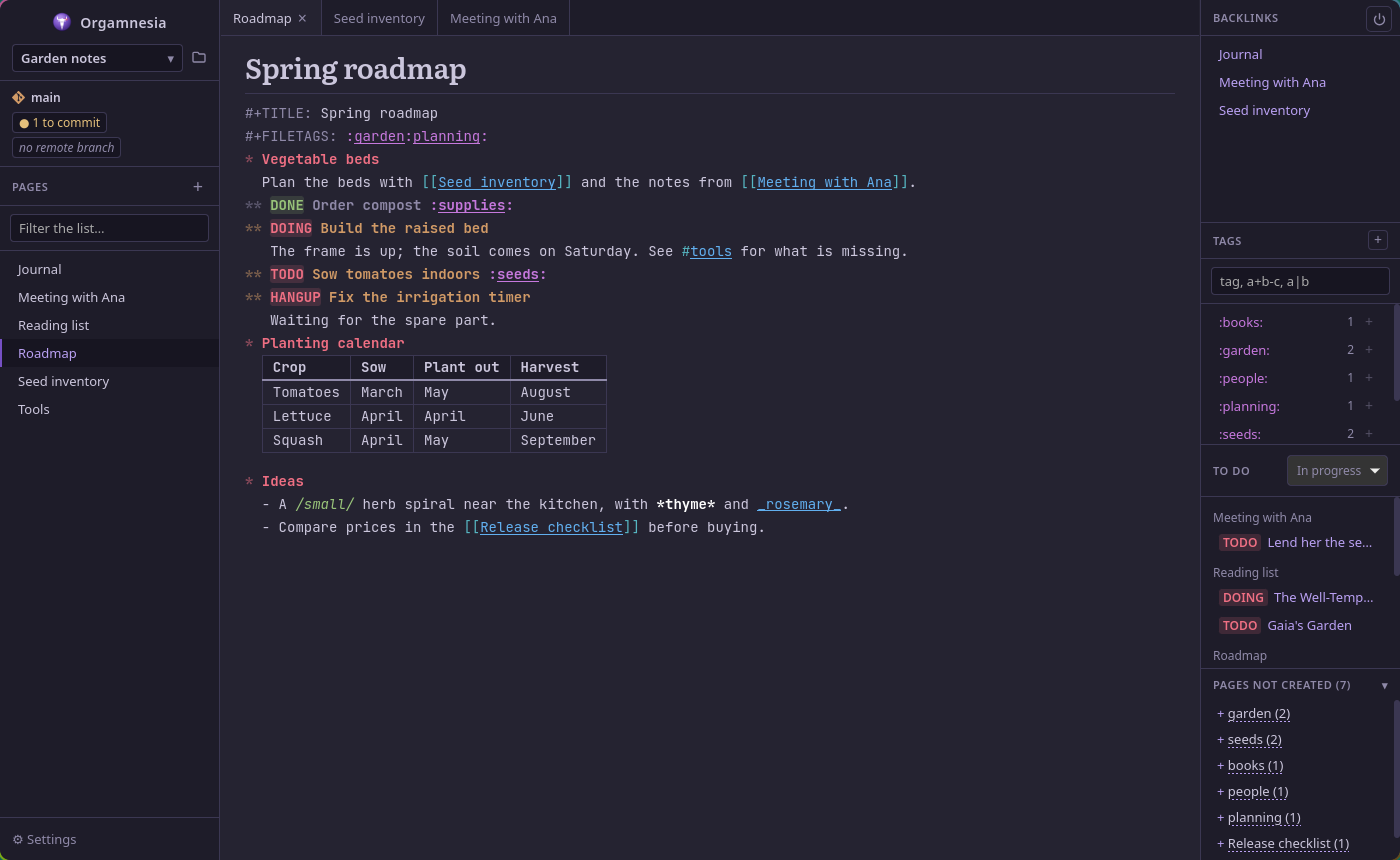
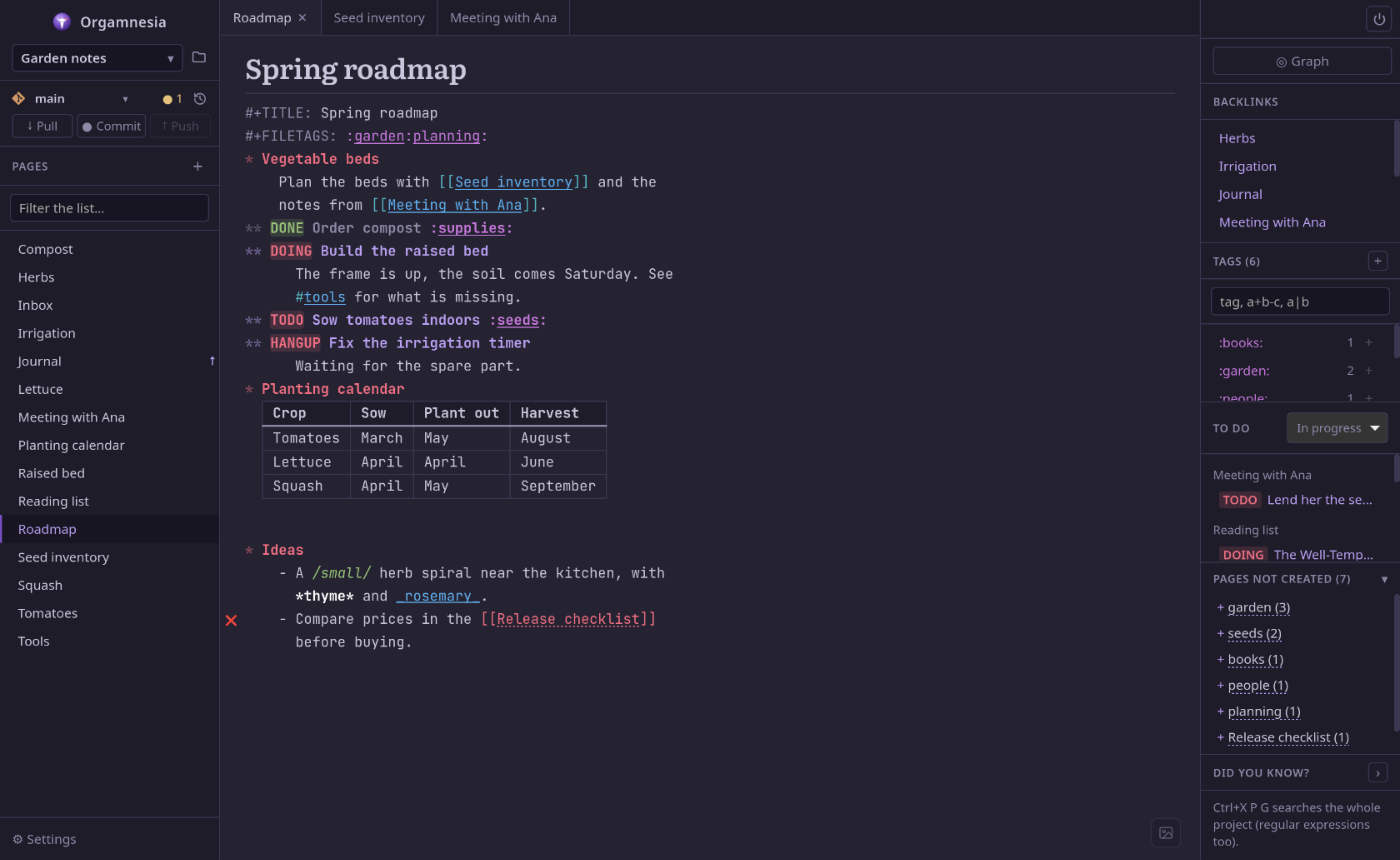
Docs for 1.3 and 1.4, new screenshots; arrows shown as arrows in shortcuts
- Feature docs (English and French): command palette, switching project
  from the keyboard, missing project folders hidden, Graph button, "Did you
  know?" frame, shortcut reminders, F1 cheat sheet, new shortcuts in the table
- Screenshots: overview, split view and side panel retaken; command palette,
  project menu, graph, tips frame and the Day, Fjord, Paper and Dracula themes
  added; the French docs show the English screenshots too
- Readme: palette, graph and themes, with a theme gallery; no verbatim
  markup inside bold, which GitHub shows as is
- Shortcut labels show ← → ↑ ↓ instead of ArrowLeft, ArrowRight…

diff --git a/src/keybindings.rs b/src/keybindings.rs
@@ -276,6 +276,10 @@ fn display_combo(binding: &str) -> String {
             "ctrl"  => "Ctrl".to_string(),
             "shift" => "Shift".to_string(),
             "alt"   => "Alt".to_string(),
+            "ArrowLeft"  => "←".to_string(),
+            "ArrowRight" => "→".to_string(),
+            "ArrowUp"    => "↑".to_string(),
+            "ArrowDown"  => "↓".to_string(),
             k       => {
                 let mut c = k.chars();
                 match c.next() {
